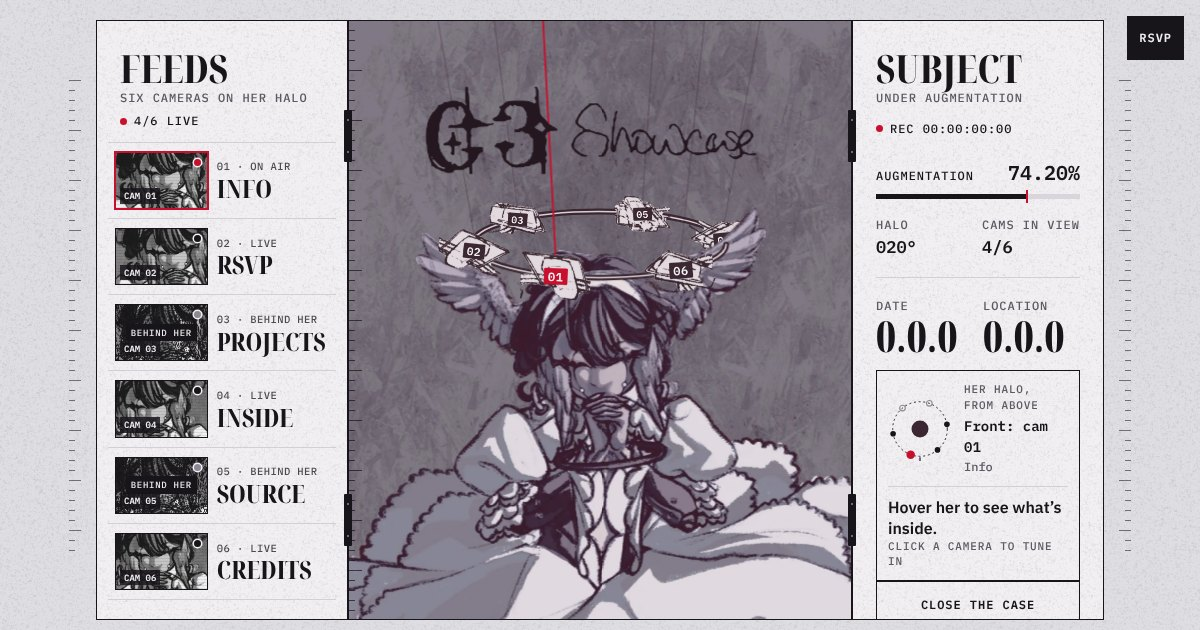
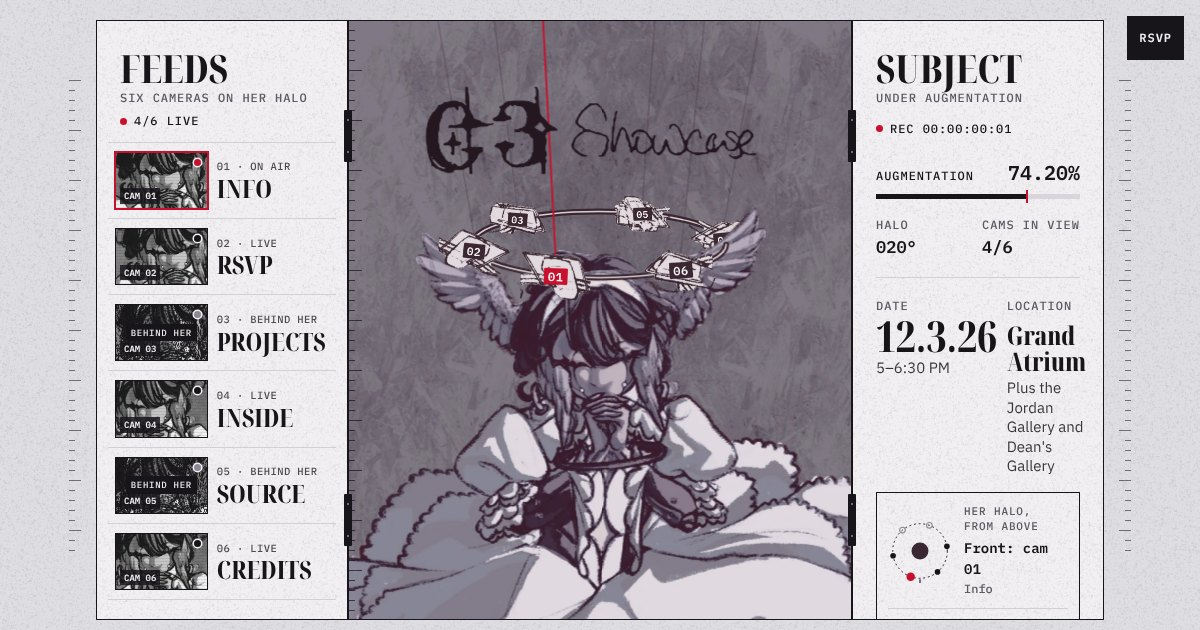
Showcase date: Thursday, December 3, 2026, with an Add to calendar link
Claude-Session: https://claude.ai/code/session_0167PWQeyoDSpawXJ6bsqDur

Changed region(s): [[0.7092, 0.4825, 0.925, 0.9651]]

diff --git a/src/markup.ts b/src/markup.ts
@@ -19,6 +19,8 @@ export interface Content {
   description: string;
   url: string;
   date: string;
+  /** The date in words, for screen readers and the page heading. Optional. */
+  dateSpoken?: string;
   location: string;
   /** Shown under the date, e.g. "5–6:30 PM". Optional. */
   time?: string;
@@ -315,7 +317,7 @@ ${c.followUrl ? `<a class="cap bar__rsvp bar__follow" href="${esc(c.followUrl)}"
 </header>
 <main class="case" id="case" data-state="sealed" data-view="hub" data-channel="info">
 <script>/* Before first paint: open on a channel from the URL, or open if this visit already opened the case. */(function(m){var h=location.hash.slice(1);var ids=${JSON.stringify(c.channels.map((ch) => ch.id))};try{if(sessionStorage.getItem('c3.open')==='1')m.dataset.state='open';}catch(e){}if(ids.indexOf(h)>=0){m.dataset.state='open';m.dataset.view='channel';m.dataset.channel=h;}})(document.currentScript.parentNode);</script>
-<h1 class="vh">C3 Showcase: the Creative Computing class showcase. Date ${isTBA(c.date) ? 'to be announced' : esc(c.date)}. ${c.time?.trim() ? ` ${esc(c.time)}.` : ''} Location ${isTBA(c.location) ? 'to be announced' : esc(c.location)}${c.rooms?.trim() ? `, ${esc(c.rooms)}` : ''}.</h1>
+<h1 class="vh">C3 Showcase: the Creative Computing class showcase. Date ${isTBA(c.date) ? 'to be announced' : esc(c.dateSpoken?.trim() || c.date)}.${c.time?.trim() ? ` ${esc(c.time)}.` : ''} Location ${isTBA(c.location) ? 'to be announced' : esc(c.location)}${c.rooms?.trim() ? `, ${esc(c.rooms)}` : ''}.</h1>
 <div class="frame" aria-hidden="true"><span class="frame__ruler frame__ruler--l"></span><span class="frame__ruler frame__ruler--r"></span><p class="cap frame__cap frame__cap--l">C3 Showcase · Specimen 01 · On display</p><p class="cap frame__cap frame__cap--r">Rec <span data-tc>00:00:00:00</span> · Halo <span data-deg>015°</span> · Augmentation <span data-aug>74.20</span>%</p><span class="frame__hinge frame__hinge--lt"></span><span class="frame__hinge frame__hinge--lb"></span><span class="frame__hinge frame__hinge--rt"></span><span class="frame__hinge frame__hinge--rb"></span></div>
 <div class="wing wing--l">
 ${feeds(c)}

diff --git a/tests/unit/markup.test.ts b/tests/unit/markup.test.ts
@@ -30,9 +30,9 @@ describe('markup', () => {
   });
 
   it('says what, when and where in the heading', () => {
-    const dated = renderCase({ ...c, date: '4.12.26', location: 'Room 101', rooms: '', time: '' }, s, W);
+    const dated = renderCase({ ...c, date: '4.12.26', dateSpoken: '', location: 'Room 101', rooms: '', time: '' }, s, W);
     expect(dated).toMatch(/<h1[^>]*>C3 Showcase[^<]*Date 4\.12\.26[^<]*Location Room 101/);
-    expect(html).toMatch(/<h1[^>]*>[^<]*5–6:30 PM[^<]*Location Grand Atrium, plus the Jordan Gallery and Dean&#39;s Gallery/);
+    expect(html).toMatch(/<h1[^>]*>[^<]*Date Thursday, December 3, 2026\. 5–6:30 PM[^<]*Location Grand Atrium, plus the Jordan Gallery and Dean&#39;s Gallery/);
   });
 
   it('says "to be announced" while a value is still her placeholder, and not after', () => {
@@ -58,7 +58,8 @@ describe('markup', () => {
 
   it('hides links whose URL is empty', () => {
     expect(c.rsvpUrl).toBe('');
-    expect(html).not.toContain('Add to calendar');
+    expect(renderCase({ ...c, calendarUrl: '' }, s, W)).not.toContain('Add to calendar');
+    expect(html).toContain('Add to calendar');
     expect(html).not.toContain('Read the code on GitHub');
     expect(html).toContain(c.rsvpSoon);
     const withUrls = renderCase({ ...c, rsvpUrl: 'https://example.com/rsvp', sourceUrl: 'https://example.com/src' }, s, W);

diff --git a/OWNER.md b/OWNER.md
@@ -12,7 +12,7 @@ Everything waiting on Ethan or the artist, in one place.
 | # | Question or action | Needed by | Until then |
 |---|---|---|---|
 | 2 | **About blurb:** one or two lines about the showcase (`src/content/site.json`, `about`) | Any time | "The Creative Computing class puts its work on show: games, apps, music and machines, one booth each." |
-| 3 | **Date** (time and rooms are in: 5–6:30 PM, Grand Atrium plus the Jordan Gallery and Dean's Gallery). **Location** (`date`, `location`; also `calendarUrl` and `mapUrl` if you want those links). Put them in `site.json` and every "TBA" label and the "coming soon" line disappear by themselves. | Launch | "0.0.0" labelled "TBA", "coming soon" on Info, no calendar or map links |
+| 3 | Done: 12.3.26 (Thursday, December 3, 2026), with a Google Calendar link (time and rooms are in: 5–6:30 PM, Grand Atrium plus the Jordan Gallery and Dean's Gallery). **Location** (`date`, `location`; also `calendarUrl` and `mapUrl` if you want those links). Put them in `site.json` and every "TBA" label and the "coming soon" line disappear by themselves. | Launch | "0.0.0" labelled "TBA", "coming soon" on Info, no calendar or map links |
 | 4 | **RSVP link** (`rsvpUrl`) | Launch | "RSVP · Opens soon", not a link |
 | 5 | **Follow link:** which platform, and the URL | Launch | Not shown |
 | 20 | **"Read the code on GitHub"** on the Source channel: the repo is private, so the link is hidden (`sourceUrl` is empty). Make the repo public and fill `sourceUrl`, or leave it hidden. | Any time | Hidden |
